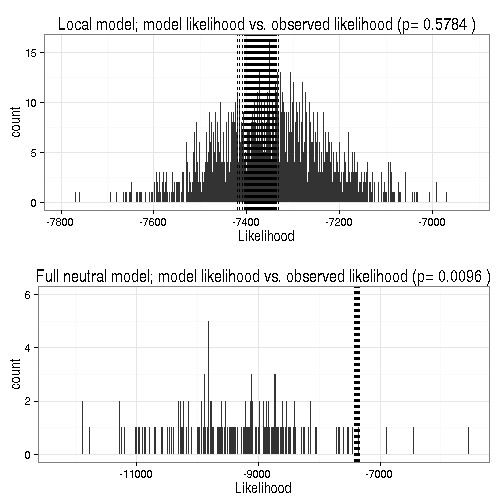
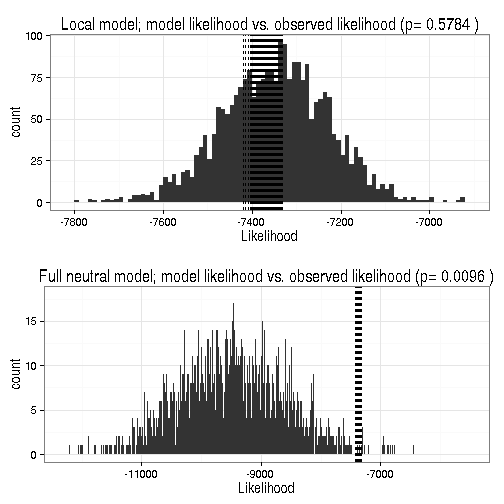
figs

diff --git a/R/pkg/inst/doc/vignette.md b/R/pkg/inst/doc/vignette.md
@@ -127,18 +127,7 @@ abline(v = burnin)
 
 ### Metacommunity
 
-Metacommunity distribution with the local assembly model
-
-
-```r
-boxplot(metacommunity$p, las = 1, xlab = "Species index", ylab = "Abundance", 
-    main = "Metacommunity composition")
-```
-
-<img src="figure/metalocal.png" title="plot of chunk metalocal" alt="plot of chunk metalocal" width="1\textwidth" />
-
-
-Metacommunity averages:
+Metacommunity composition (average over samples) with the local assembly model
 
 
 ```r
@@ -210,19 +199,19 @@ grid.arrange(local, full, nrow = 2)
 
 
 Likelihoods in MCMC simulations (histogram) and observed data (vertical
-dashed line):
+dashed lines):
 
 
 ```r
-full <- qplot(stats$LN, binwidth = 1, geom = "histogram") + geom_vline(x = unique(stats$LO), 
-    linetype = 2)
+full <- qplot(stats$LN, binwidth = 10, geom = "histogram")
+full <- full + geom_vline(x = unique(stats$LO), linetype = 2)
 full <- full + ggtitle(paste("Full neutral model; model likelihood vs. observed likelihood (p=", 
     nmgs_neutrality(stats, "full")$pseudo.pvalue, ")"))
 full <- full + xlab("Likelihood")
 
 
-local <- qplot(stats$LL, binwidth = 1, geom = "histogram") + geom_vline(x = unique(stats$LO), 
-    linetype = 2)
+local <- qplot(stats$LL, binwidth = 10, geom = "histogram")
+local <- local + geom_vline(x = unique(stats$LO), linetype = 2)
 local <- local + ggtitle(paste("Local model; model likelihood vs. observed likelihood (p=", 
     nmgs_neutrality(stats, "local")$pseudo.pvalue, ")"))
 local <- local + xlab("Likelihood")

diff --git a/R/pkg/vignettes/vignette.md b/R/pkg/vignettes/vignette.md
@@ -127,18 +127,7 @@ abline(v = burnin)
 
 ### Metacommunity
 
-Metacommunity distribution with the local assembly model
-
-
-```r
-boxplot(metacommunity$p, las = 1, xlab = "Species index", ylab = "Abundance", 
-    main = "Metacommunity composition")
-```
-
-<img src="figure/metalocal.png" title="plot of chunk metalocal" alt="plot of chunk metalocal" width="1\textwidth" />
-
-
-Metacommunity averages:
+Metacommunity composition (average over samples) with the local assembly model
 
 
 ```r
@@ -210,19 +199,19 @@ grid.arrange(local, full, nrow = 2)
 
 
 Likelihoods in MCMC simulations (histogram) and observed data (vertical
-dashed line):
+dashed lines):
 
 
 ```r
-full <- qplot(stats$LN, binwidth = 1, geom = "histogram") + geom_vline(x = unique(stats$LO), 
-    linetype = 2)
+full <- qplot(stats$LN, binwidth = 10, geom = "histogram")
+full <- full + geom_vline(x = unique(stats$LO), linetype = 2)
 full <- full + ggtitle(paste("Full neutral model; model likelihood vs. observed likelihood (p=", 
     nmgs_neutrality(stats, "full")$pseudo.pvalue, ")"))
 full <- full + xlab("Likelihood")
 
 
-local <- qplot(stats$LL, binwidth = 1, geom = "histogram") + geom_vline(x = unique(stats$LO), 
-    linetype = 2)
+local <- qplot(stats$LL, binwidth = 10, geom = "histogram")
+local <- local + geom_vline(x = unique(stats$LO), linetype = 2)
 local <- local + ggtitle(paste("Local model; model likelihood vs. observed likelihood (p=", 
     nmgs_neutrality(stats, "local")$pseudo.pvalue, ")"))
 local <- local + xlab("Likelihood")
